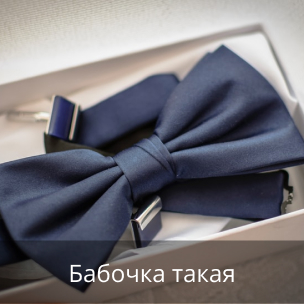
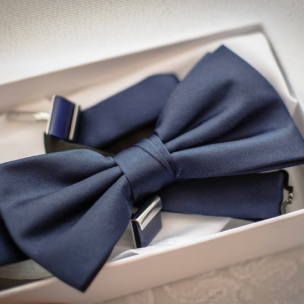
гл.страницу корректировала

Changed region(s): [[0.0, 0.7697, 1.0, 1.0], [0.0, 0.7993, 0.0296, 0.8289]]

diff --git a/www/style/style.css b/www/style/style.css
@@ -31,7 +31,7 @@
   padding: 16px 0;
 }
 
-.headr-inner {
+.header-inner {
   max-width: 1276px;
   margin: 0 auto;
   border: 1px solid red;
@@ -111,12 +111,6 @@ a {
   border: 1px solid red;
 }
 
-.services-portfolio {
-  margin: 20 -20px;
-  display: flex;
-  justify-content: space-between;
-}
-
 .services-title {
   left: 33.23%;
   right: 33.23%;
@@ -130,6 +124,12 @@ a {
   text-align: center;
 }
 
+.services-portfolio-wrap {
+  display: flex;
+  justify-content: space-between;
+  padding-bottom: 120px;
+}
+
 .services-portfolio-img {
   width: 304px;
   height: 304px;
@@ -141,6 +141,17 @@ a {
 .services-img {
   width: 100%;
   display: block;
+}
+
+.services-portfolio-text {
+  padding: 15px 0;
+  font-size: 24px;
+  line-height: 33px;
+  font-weight: 400;
+  background: rgba(0, 0, 0, 0.4);
+  opacity: 0.5;
+  text-align: center;
+  color: #ffffff;
 }
 
 .order-inner-fade {
@@ -178,8 +189,19 @@ a {
   align-items: flex-end;
 }
 
+.form-order-field {
+  flex-basis: 33.33%;
+  padding: 0px 10px;
+}
+
 .form-order-label {
-  padding: 20px 0;
+  display: inline-block;
+  padding-bottom: 8px;
+  font-size: 20px;
+  line-height: 27px;
+  font-family: Open Sans;
+  font-style: normal;
+  font-weight: 400;
 }
 
 .form-input {
@@ -192,16 +214,6 @@ a {
   font-weight: 400;
   font-family: inherit;
   border: none;
-}
-
-.form-order-label {
-  display: inline-block;
-  padding-bottom: 8px;
-  font-size: 20px;
-  line-height: 27px;
-  font-family: Open Sans;
-  font-style: normal;
-  font-weight: 400;
 }
 
 .footer {
@@ -282,6 +294,7 @@ a {
   border: none;
   border-radius: 6px;
   width: 412px;
+  top: 130px;
 }
 
 .social-icons {
@@ -320,4 +333,4 @@ a {
   font-size: 1px;
   opacity: 0;
 }
[2 lines of base64/hex data omitted]

diff --git a/www/index.html b/www/index.html
@@ -11,7 +11,7 @@
 <body>
 
   <header class="header">
-    <div class="headr-inner">
+    <div class="header-inner">
       <div class="header-wrap">
         <a href="index.html" class="main-logo">Butterfly</a>
 
@@ -48,24 +48,34 @@
 
     <section class="services">
       <div class="services-inner">
+
         <h1 class="services-title">Наши работы</h1>
 
-        <div class="services-portfolio">
-          <div class="services-portfolio-img">
-            <img src="images/portfolio-item-1.jpg" alt="Бабочка такая" class="services-img">
-          </div>
+        <div class="services-portfolio-wrap">
 
-          <div class="services-portfolio-img">
-            <img src="images/portfolio-item-2.jpg" alt="Бабочка растакая" class="services-img">
-          </div>
+          
+            <div class="services-portfolio-img">
+              <img src="images/portfolio-item-1.jpg" alt="Бабочка в упаковке" class="services-img">
+              <figcaption class="services-portfolio-text">Бабочка такая</figcaption>
+            </div>
 
-          <div class="services-portfolio-img">
-            <img src="images/portfolio-item-3.jpg" alt="Бабочка сякая" class="services-img">
-          </div>
+            <div class="services-portfolio-img">
+              <img src="images/portfolio-item-2.jpg" alt="Бабочка в коробке" class="services-img">
+              <figcaption class="services-portfolio-text">Бабочка растакая</figcaption>
+            </div>
 
-          <div class="services-portfolio-img">
-            <img src="images/portfolio-item-4.jpg" alt="Бабочка кривая" class="services-img">
-          </div>
+            <div class="services-portfolio-img">
+              <img src="images/portfolio-item-3.jpg" alt="Бабочка на мужчине" class="services-img">
+              <figcaption class="services-portfolio-text">Бабочка сякая</figcaption>
+            </div>
+
+            <div class="services-portfolio-img">
+              <img src="images/portfolio-item-4.jpg" alt="Бабочка на коте" class="services-img">
+              <figcaption class="services-portfolio-text">Бабочка кривая</figcaption>
+            </div>
+
+
+
         </div>
 
         <a href="#" class="portfolio-btn">Все бабочки</a>

diff --git a/src/styles/blocks/_services.scss b/src/styles/blocks/_services.scss
@@ -1,18 +1,11 @@
 .services {
   background-color: $color-ligth;
 
+ 
 }
 
 .services-inner {
   @include container;
-}
-
-
-.services-portfolio {
-  margin: 20 -20px;
-  display: flex;
-  justify-content: space-between;
-
 }
 
 .services-title {
@@ -28,15 +21,38 @@
   text-align: center;
 }
 
+
+.services-portfolio-wrap {
+  display: flex;
+  justify-content: space-between;
+  padding-bottom: 120px;
+  }
+
+
 .services-portfolio-img {
   width: 304px;
   height: 304px;
   left: 82px;
   top: 314px;
   padding: 20px 0;
+
 }
 
 .services-img {
   width: 100%;
   display: block;
+
 }
+
+.services-portfolio-text {
+  padding: 15px 0;
+  font-size: 24px;
+  line-height: 33px;
+  font-weight: 400;
+  background: rgba(0, 0, 0, 0.4);
+  opacity: 0.5;
+  text-align: center;
+  color: #ffffff;
+
+}
+

diff --git a/src/styles/blocks/_form-order.scss b/src/styles/blocks/_form-order.scss
@@ -4,8 +4,22 @@
 
 }
 
+.form-order-field {
+  flex-basis: 33.33%;
+  padding: 0px 10px;
+
+}
+
+
 .form-order-label {
-  padding: 20px 0;
+  display: inline-block;
+  padding-bottom: 8px;
+  font-size: 20px;
+  line-height: 27px;
+  font-family: Open Sans;
+  font-style: normal;
+  font-weight: 400;
+
 
 }
 
@@ -21,13 +35,4 @@
   border: none;
 }
 
-.form-order-label {
-  display: inline-block;
-  padding-bottom: 8px;
-  font-size: 20px;
-  line-height: 27px;
-  font-family: Open Sans;
-  font-style: normal;
-  font-weight: 400;
 
-}

diff --git a/www/catalog.html b/www/catalog.html
@@ -9,7 +9,7 @@
 
 <body>
   <header class="header">
-    <div class="headr-inner">
+    <div class="header-inner">
       <div class="header-wrap">
         <a href="index.html" class="main-logo">Butterfly</a>
 
@@ -36,7 +36,7 @@
 
   <main>
 
-    
+
   </main>
 
 </body>

diff --git a/src/styles/style.scss b/src/styles/style.scss
@@ -6,7 +6,7 @@
 @import "common/_mixins";
 
 // blocks
-@import "blocks/_headr";
+@import "blocks/_header";
 @import "blocks/_menu";
 @import "blocks/_promo";
 @import "blocks/_services";

diff --git a/src/styles/blocks/_header.scss b/src/styles/blocks/_header.scss
@@ -3,7 +3,7 @@
   padding: 16px 0;
 }
 
-.headr-inner {
+.header-inner {
   @include container;
 }
 

diff --git a/src/styles/blocks/_btn.scss b/src/styles/blocks/_btn.scss
@@ -44,5 +44,7 @@
   border: none;
   border-radius: 6px;
   width: 412px;
+  top: 130px;
+
 
 }
